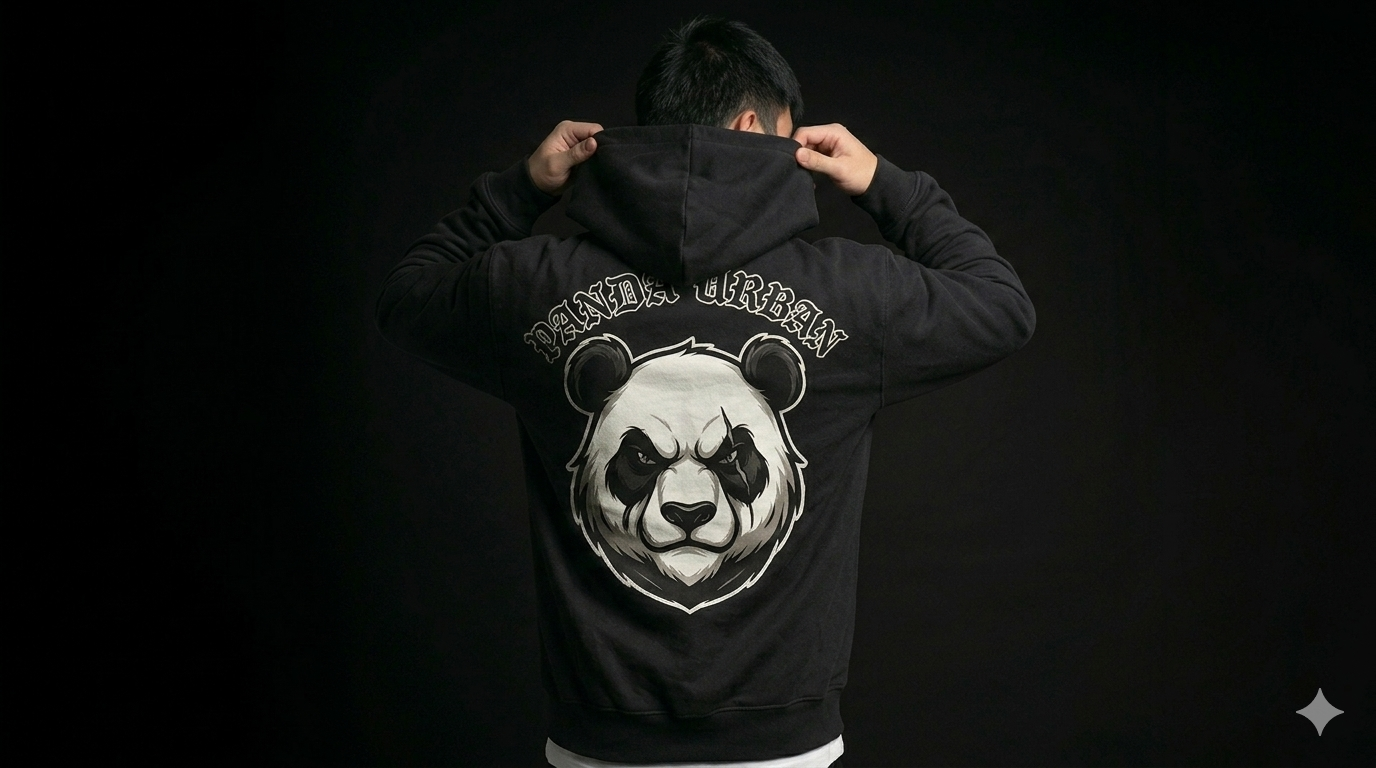
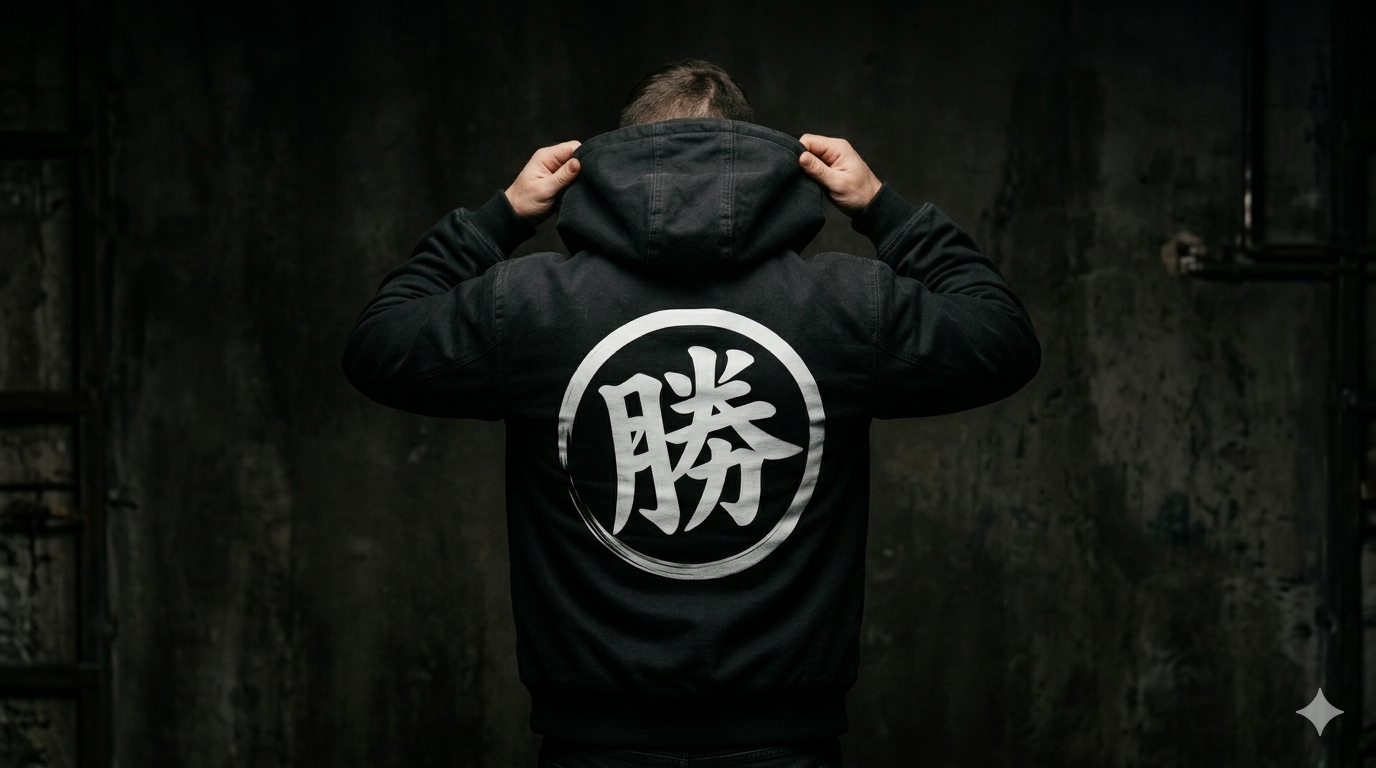
arreglando...

diff --git a/app/nosotros/page.tsx b/app/nosotros/page.tsx
@@ -1,10 +1,10 @@
-import { Header } from "@/components/header"
-import { Footer } from "@/components/footer"
-import { FoxLogo } from "@/components/fox-logo"
-import Image from "next/image"
-import Link from "next/link"
-import { Button } from "@/components/ui/button"
-import { ArrowRight } from "lucide-react"
+import { Header } from "@/components/header";
+import { Footer } from "@/components/footer";
+import { FoxLogo } from "@/components/fox-logo";
+import Image from "next/image";
+import Link from "next/link";
+import { Button } from "@/components/ui/button";
+import { ArrowRight } from "lucide-react";
 
 export default function NosotrosPage() {
   return (
@@ -16,13 +16,14 @@ export default function NosotrosPage() {
         <div className="container mx-auto px-4">
           <div className="max-w-4xl mx-auto text-center">
             <FoxLogo className="w-20 h-20 text-gold mx-auto mb-8" />
-            <p className="text-gold text-sm tracking-[0.3em] uppercase mb-4">Nuestra Historia</p>
+            <p className="text-gold text-sm tracking-[0.3em] uppercase mb-4">
+              Nuestra Historia
+            </p>
             <h1 className="font-[family-name:var(--font-display)] text-5xl md:text-7xl font-bold tracking-tight text-foreground mb-8">
-              SLIPERY
+              L E A L
             </h1>
             <p className="text-xl text-muted-foreground leading-relaxed max-w-2xl mx-auto">
-              Nacimos en las calles. Crecimos con la noche. Somos la voz de una generacion 
-              que no pide permiso para ser diferente.
+              No nacimos para ser uno más. Nacimos para destacar.
             </p>
           </div>
         </div>
@@ -33,26 +34,30 @@ export default function NosotrosPage() {
         <div className="container mx-auto px-4">
           <div className="grid md:grid-cols-2 gap-12 md:gap-24 items-center">
             <div>
-              <p className="text-gold text-sm tracking-[0.3em] uppercase mb-4">Nuestra Mision</p>
+              <p className="text-gold text-sm tracking-[0.3em] uppercase mb-4">
+                Nuestra Mision
+              </p>
               <h2 className="font-[family-name:var(--font-display)] text-4xl md:text-5xl font-bold tracking-tight text-foreground mb-6">
                 NO SEGUIMOS
                 <br />
                 <span className="text-gold">TENDENCIAS</span>
               </h2>
               <p className="text-muted-foreground text-lg leading-relaxed mb-6">
-                SLIPERY no es solo ropa. Es una declaracion de identidad. Cada prenda esta 
-                disenada para los que caminan su propio camino, los que no encajan en moldes, 
-                los que entienden que el estilo es actitud.
+                L E A L no es solo ropa. Es una declaracion de identidad. Cada
+                prenda esta diseñada para los que caminan su propio camino, los
+                que no encajan en moldes, los que entienden que el estilo es
+                actitud.
               </p>
               <p className="text-muted-foreground text-lg leading-relaxed">
-                Creemos en la calidad premium, en los detalles que marcan diferencia, y en 
-                crear piezas que hablen por ti cuando las palabras no alcanzan.
+                Creemos en la calidad premium, en los detalles que marcan
+                diferencia, y en crear piezas que hablen por ti cuando las
+                palabras no alcanzan.
               </p>
             </div>
             <div className="relative aspect-square">
               <Image
-                src="/images/hero-model.jpg"
-                alt="SLIPERY Brand"
+                src="/images/fox-logo-blanco.png"
+                alt="L  E  A  L Streetwear"
                 fill
                 className="object-cover"
               />
@@ -65,53 +70,54 @@ export default function NosotrosPage() {
       {/* Values Section */}
       <section className="py-24 bg-card">
         <div className="container mx-auto px-4">
-          <div className="text-center mb-16">
-            <p className="text-gold text-sm tracking-[0.3em] uppercase mb-4">Lo Que Nos Define</p>
-            <h2 className="font-[family-name:var(--font-display)] text-4xl md:text-5xl font-bold tracking-tight text-foreground">
-              NUESTROS VALORES
-            </h2>
-          </div>
-
           <div className="grid md:grid-cols-3 gap-8">
             {/* Value 1 */}
             <div className="text-center p-8">
               <div className="w-16 h-16 mx-auto mb-6 border border-gold flex items-center justify-center">
-                <span className="font-[family-name:var(--font-display)] text-2xl text-gold">01</span>
+                <span className="font-[family-name:var(--font-display)] text-2xl text-gold">
+                  01
+                </span>
               </div>
               <h3 className="font-[family-name:var(--font-display)] text-2xl font-bold text-foreground mb-4">
-                AUTENTICIDAD
+                CALIDAD 1.1
               </h3>
               <p className="text-muted-foreground leading-relaxed">
-                Cada diseno nace de la calle. Sin filtros, sin pretensiones. 
-                Somos reales porque venimos de lo real.
+                Trabajamos con calidad 1.1. Materiales premium, acabados limpios
+                y prendas hechas para verse duras y durar. Aquí no vendemos
+                barato, vendemos bien.
               </p>
             </div>
 
             {/* Value 2 */}
             <div className="text-center p-8">
               <div className="w-16 h-16 mx-auto mb-6 border border-gold flex items-center justify-center">
-                <span className="font-[family-name:var(--font-display)] text-2xl text-gold">02</span>
+                <span className="font-[family-name:var(--font-display)] text-2xl text-gold">
+                  02
+                </span>
               </div>
               <h3 className="font-[family-name:var(--font-display)] text-2xl font-bold text-foreground mb-4">
-                CALIDAD PREMIUM
+                CONFIANZA REAL
               </h3>
               <p className="text-muted-foreground leading-relaxed">
-                Materiales de primera. Costuras que duran. Prendas hechas para 
-                resistir la vida urbana sin perder el estilo.
+                Lo que ves es lo que llega. Sin cuentos, sin engaños.
+                Construimos confianza con cada pedido, porque sabemos que la
+                reputación lo es todo.
               </p>
             </div>
 
             {/* Value 3 */}
             <div className="text-center p-8">
               <div className="w-16 h-16 mx-auto mb-6 border border-gold flex items-center justify-center">
-                <span className="font-[family-name:var(--font-display)] text-2xl text-gold">03</span>
+                <span className="font-[family-name:var(--font-display)] text-2xl text-gold">
+                  03
+                </span>
               </div>
               <h3 className="font-[family-name:var(--font-display)] text-2xl font-bold text-foreground mb-4">
-                ACTITUD URBANA
+                ESTILO QUE IMPACTA
               </h3>
               <p className="text-muted-foreground leading-relaxed">
-                No vestimos cuerpos, vestimos actitudes. SLIPERY es para los que 
-                saben que el estilo es una extension de quien eres.
+                No es solo ropa. Es presencia. Diseños pensados para destacar en
+                la calle, en el gym o donde sea. Si te miran, es por algo.
               </p>
             </div>
           </div>
@@ -123,20 +129,36 @@ export default function NosotrosPage() {
         <div className="container mx-auto px-4">
           <div className="grid grid-cols-2 md:grid-cols-4 gap-8 text-center">
             <div>
-              <p className="font-[family-name:var(--font-display)] text-5xl md:text-6xl font-bold text-gold mb-2">+5K</p>
-              <p className="text-sm text-muted-foreground tracking-widest uppercase">Clientes</p>
+              <p className="font-[family-name:var(--font-display)] text-5xl md:text-6xl font-bold text-gold mb-2">
+                +5K
+              </p>
+              <p className="text-sm text-muted-foreground tracking-widest uppercase">
+                Clientes
+              </p>
             </div>
             <div>
-              <p className="font-[family-name:var(--font-display)] text-5xl md:text-6xl font-bold text-gold mb-2">100%</p>
-              <p className="text-sm text-muted-foreground tracking-widest uppercase">Premium</p>
+              <p className="font-[family-name:var(--font-display)] text-5xl md:text-6xl font-bold text-gold mb-2">
+                100%
+              </p>
+              <p className="text-sm text-muted-foreground tracking-widest uppercase">
+                Premium
+              </p>
             </div>
             <div>
-              <p className="font-[family-name:var(--font-display)] text-5xl md:text-6xl font-bold text-gold mb-2">24H</p>
-              <p className="text-sm text-muted-foreground tracking-widest uppercase">Envio</p>
+              <p className="font-[family-name:var(--font-display)] text-5xl md:text-6xl font-bold text-gold mb-2">
+                24H
+              </p>
+              <p className="text-sm text-muted-foreground tracking-widest uppercase">
+                Envio
+              </p>
             </div>
             <div>
-              <p className="font-[family-name:var(--font-display)] text-5xl md:text-6xl font-bold text-gold mb-2">2024</p>
-              <p className="text-sm text-muted-foreground tracking-widest uppercase">Fundacion</p>
+              <p className="font-[family-name:var(--font-display)] text-5xl md:text-6xl font-bold text-gold mb-2">
+                2024
+              </p>
+              <p className="text-sm text-muted-foreground tracking-widest uppercase">
+                Fundacion
+              </p>
             </div>
           </div>
         </div>
@@ -149,7 +171,8 @@ export default function NosotrosPage() {
             UNETE AL <span className="text-gold">PACK</span>
           </h2>
           <p className="text-muted-foreground text-lg mb-8 max-w-xl mx-auto">
-            Descubre la coleccion completa y encuentra tu proximo statement piece.
+            Descubre la coleccion completa y encuentra tu proximo statement
+            piece.
           </p>
           <Button
             asChild
@@ -166,5 +189,5 @@ export default function NosotrosPage() {
 
       <Footer />
     </main>
-  )
+  );
 }

diff --git a/components/footer.tsx b/components/footer.tsx
@@ -12,7 +12,7 @@ export function Footer() {
             <Link href="/" className="flex items-center gap-2 mb-4">
               <FoxLogo className="w-10 h-10 text-gold" />
               <span className="font-[family-name:var(--font-display)] text-2xl font-bold tracking-[0.2em] text-foreground">
-                SLIPERY
+                L  E  A  L
               </span>
             </Link>
             <p className="text-muted-foreground text-sm leading-relaxed">
@@ -120,7 +120,7 @@ export function Footer() {
         {/* Bottom */}
         <div className="border-t border-border mt-12 pt-8 flex flex-col md:flex-row justify-between items-center gap-4">
           <p className="text-xs text-muted-foreground tracking-widest uppercase">
-            2026 SLIPERY. Todos los derechos reservados.
+            2026 L  E  A  L. Todos los derechos reservados.
           </p>
           <div className="flex gap-6">
             <Link href="/" className="text-xs text-muted-foreground hover:text-gold transition-colors tracking-widest uppercase">

diff --git a/components/loading-screen.tsx b/components/loading-screen.tsx
@@ -52,9 +52,14 @@ export function LoadingScreen({ onComplete }: LoadingScreenProps) {
           }`}
         >
           <FoxLogo
-            className={`w-16 md:w-24 h-auto text-gold drop-shadow-[0_0_10px_rgba(255,255,255,0.6)] transition-transform duration-700 ${
-              phase === "reveal" ? "translate-x-2" : ""
-            }`}
+            className={`w-16 md:w-24 h-auto text-gold 
+  drop-shadow-[0_0_10px_rgba(255,255,255,1)]
+  drop-shadow-[0_0_30px_rgba(255,255,255,0.9)]
+  drop-shadow-[0_0_60px_rgba(255,255,255,0.7)]
+  brightness-125
+  transition-transform duration-700 ${
+    phase === "loading" ? "animate-pulse scale-105" : ""
+  }`}
           />
         </div>
 
@@ -76,7 +81,7 @@ export function LoadingScreen({ onComplete }: LoadingScreenProps) {
     ${phase === "loading" ? "-translate-x-full" : "translate-x-0"}
   `}
           >
-            PANDA URBAN
+            L  E  A  L
           </h1>
         </div>
       </div>

diff --git a/components/header.tsx b/components/header.tsx
@@ -2,7 +2,7 @@
 
 import Link from "next/link";
 import { useState } from "react";
-import { Menu, X, ShoppingBag, Search, User } from "lucide-react";
+import { Menu, X, ShoppingBag, Search, Heart } from "lucide-react";
 import { FoxLogo } from "./fox-logoo";
 import { useCart } from "@/components/CartContext";
 
@@ -63,7 +63,7 @@ export function Header() {
               </button>
 
               <button className="hidden md:block text-foreground hover:text-gold transition-colors">
-                <User className="w-5 h-5" />
+                <Heart className="w-5 h-5 hover:scale-110 transition-transform" />
               </button>
 
               {/* 🛒 Carrito */}

diff --git a/app/layout.tsx b/app/layout.tsx
@@ -12,7 +12,7 @@ const _inter = Inter({ subsets: ["latin"] });
 const _oswald = { variable: "--font-oswald" }; // Declared _oswald variable
 
 export const metadata: Metadata = {
-  title: 'SLIPERY | Streetwear Premium',
+  title: 'L E A L | Streetwear Premium',
   description: 'Streetwear sin reglas. Viste urbano. Viste real. Ropa urbana premium para los que no siguen tendencias.',
   generator: 'v0.app',
   icons: {
@@ -53,9 +53,9 @@ export default function RootLayout({
   
   <Image 
     src="/logo.png"
-    alt="SLIPERY logo"
-    width={160}
-    height={60}
+    alt="LEAL logo"
+    width={100}
+    height={100}
     priority
   />
 </header>

diff --git a/app/page.tsx b/app/page.tsx
@@ -10,7 +10,7 @@ export default function HomePage() {
 
   useEffect(() => {
     // Check if we've already shown the loading screen in this session
-    const hasLoaded = sessionStorage.getItem("slipery-loaded")
+    const hasLoaded = sessionStorage.getItem("leal-loaded")
     if (hasLoaded) {
       setIsLoading(false)
       setShowContent(true)
@@ -20,7 +20,7 @@ export default function HomePage() {
   const handleLoadingComplete = () => {
     setIsLoading(false)
     setShowContent(true)
-    sessionStorage.setItem("slipery-loaded", "true")
+    sessionStorage.setItem("leal-loaded", "true")
   }
 
   return (

diff --git a/components/home-content.tsx b/components/home-content.tsx
@@ -127,7 +127,7 @@ export function HomeContent() {
               </h2>
 
               <p className="text-muted-foreground text-lg mb-8 max-w-lg">
-                PANDA URBAN nació en las calles. Cada prenda es una declaración de identidad.
+                L  E  A  L nació en las calles. Cada prenda es una declaración de identidad.
               </p>
 
             </div>

diff --git a/components/fox-logo.tsx b/components/fox-logo.tsx
@@ -3,8 +3,8 @@ import Image from "next/image"
 export function FoxLogo({ className = "" }: { className?: string }) {
   return (
     <Image
-      src="/images/fox-logo.png"
-      alt="PANDA URBAN Fox Logo"
+      src="/images/fox-logo-blanco.png"
+      alt="kanji"
       width={100}
       height={100}
       className={className}

diff --git a/components/fox-logoo.tsx b/components/fox-logoo.tsx
@@ -3,7 +3,7 @@ import Image from "next/image"
 export function FoxLogo({ className = "" }: { className?: string }) {
   return (
     <Image
-      src="/images/fox-logoo.png"
+      src="/images/fox-logo.png"
       alt="PANDA URBAN Fox Logo"
       width={100}
       height={100}
